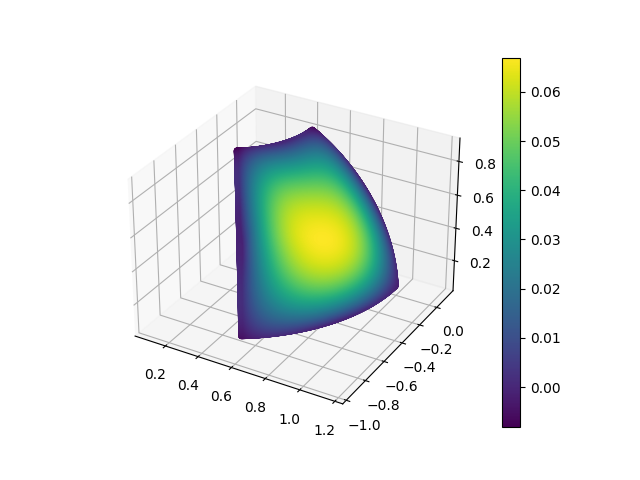
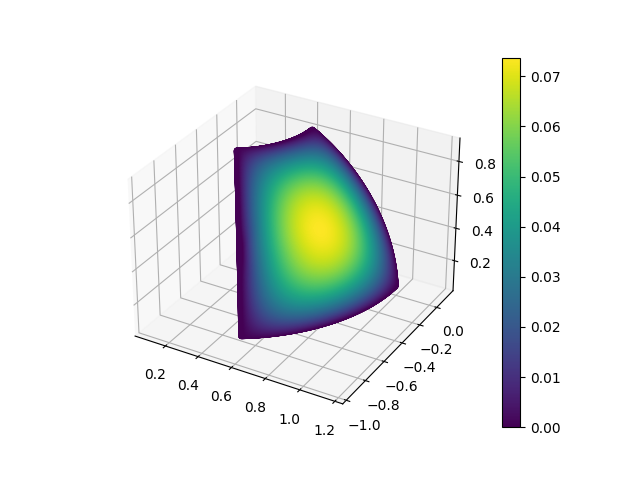
Impose exact BC on reference domain.

diff --git a/02_surface.py b/02_surface.py
@@ -8,15 +8,15 @@ ref = dde.geometry.Rectangle([0, 0], [1, 1])
 dim = 3
 
 # Spherical coordinates
-phi0, theta0 = 0.5, 1.0
+psi0, theta0 = 0.5, 1.0
 
 def to_global(x):
-    phi = x[:, 0:1] + phi0
+    psi = x[:, 0:1] + psi0
     theta = x[:, 1:2] - theta0
     return torch.cat((
-        torch.sin(phi) * torch.cos(theta),
-        torch.sin(phi) * torch.sin(theta),
-        torch.cos(phi),
+        torch.sin(psi) * torch.cos(theta),
+        torch.sin(psi) * torch.sin(theta),
+        torch.cos(psi),
     ), dim=1)
 
 # Poisson equation: -Lap(u) = 1
@@ -26,19 +26,18 @@ def pde(x, u):
         lap += dde.grad.hessian(u, x, i=i, j=i)
     return (-lap - 1)**2
 
-# Dirichlet boundary conditions
-bc = dde.icbc.DirichletBC(ref, lambda _: 0, lambda _, on_boundary: on_boundary)
-
-data = dde.data.PDE(ref, pde, bc, num_domain=100, num_boundary=40)
-net = dde.nn.FNN([dim] + [32] * 3 + [1], "tanh", "Glorot uniform")
+data = dde.data.PDE(ref, pde, [], num_domain=100)
+net = dde.nn.FNN([dim] + [128] * 3 + [1], "tanh", "Glorot uniform")
 net.apply_feature_transform(lambda x: to_global(x))
 
-# Zero Dirichlet BC
-q = lambda z: 4 * z * (1 - z)
+# Exact Dirichlet boundary condition
+q = lambda x: 4 * x * (1 - x)
+b = lambda x: q(x[:, 0:1]) * q(x[:, 1:2])
+net.apply_output_transform(lambda x, u: u * b(x))
 
 model = dde.Model(data, net)
-dde.optimizers.config.set_LBFGS_options(maxiter=1)
-model.compile("L-BFGS", loss_weights=[1e-2, 1e2])
+dde.optimizers.config.set_LBFGS_options(maxiter=1000)
+model.compile("L-BFGS")
 model.train()
 
 # Evaluate solution
